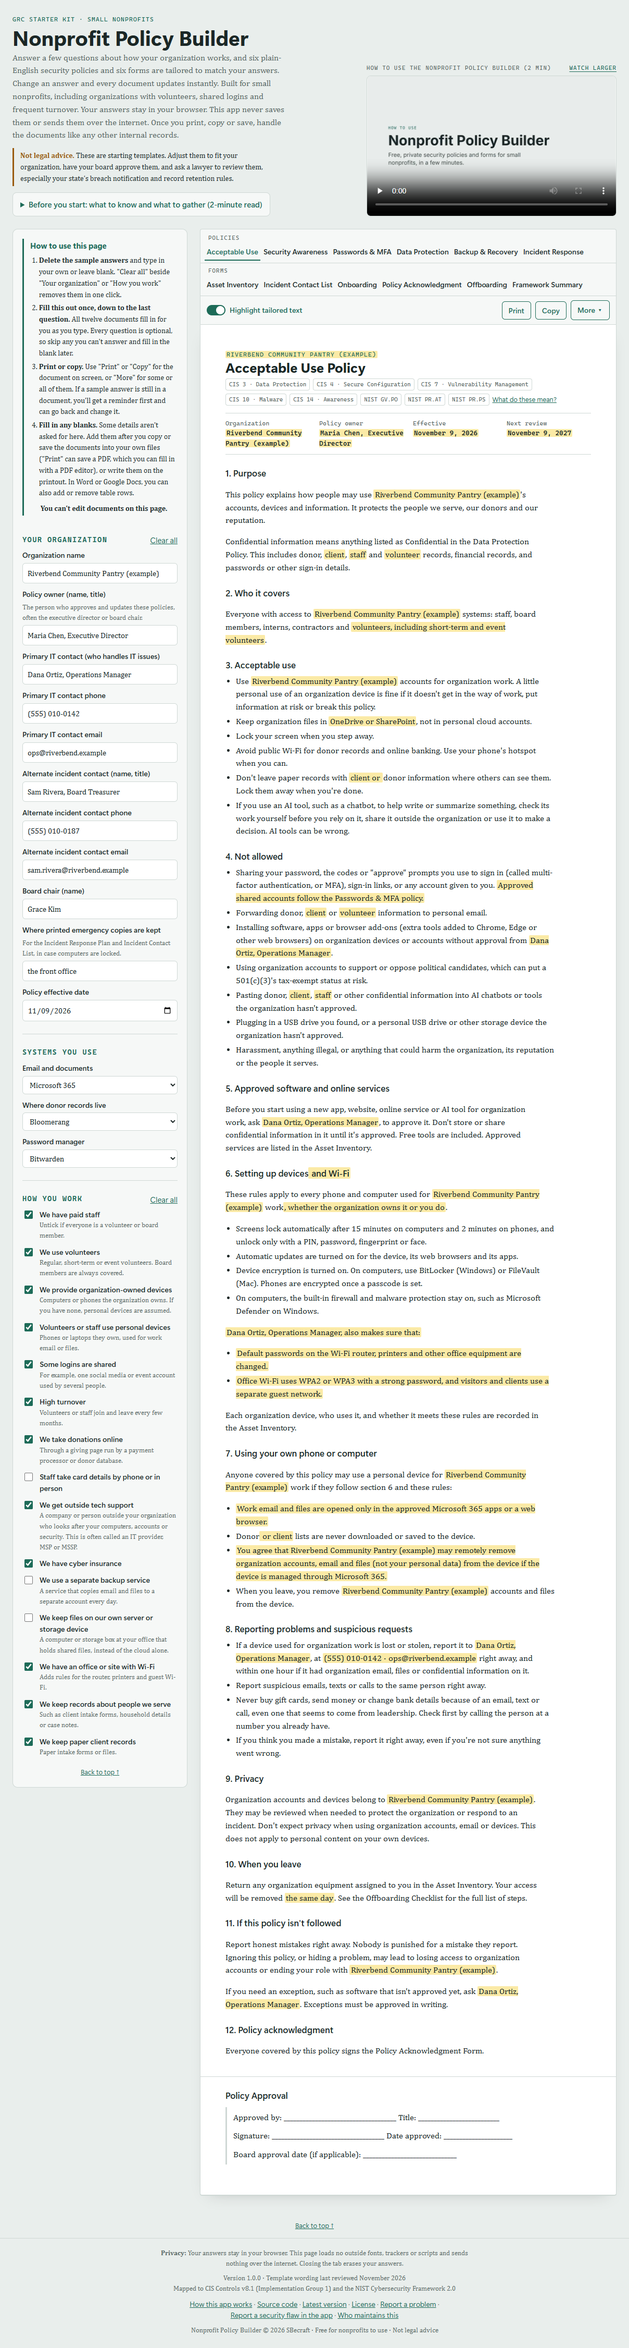
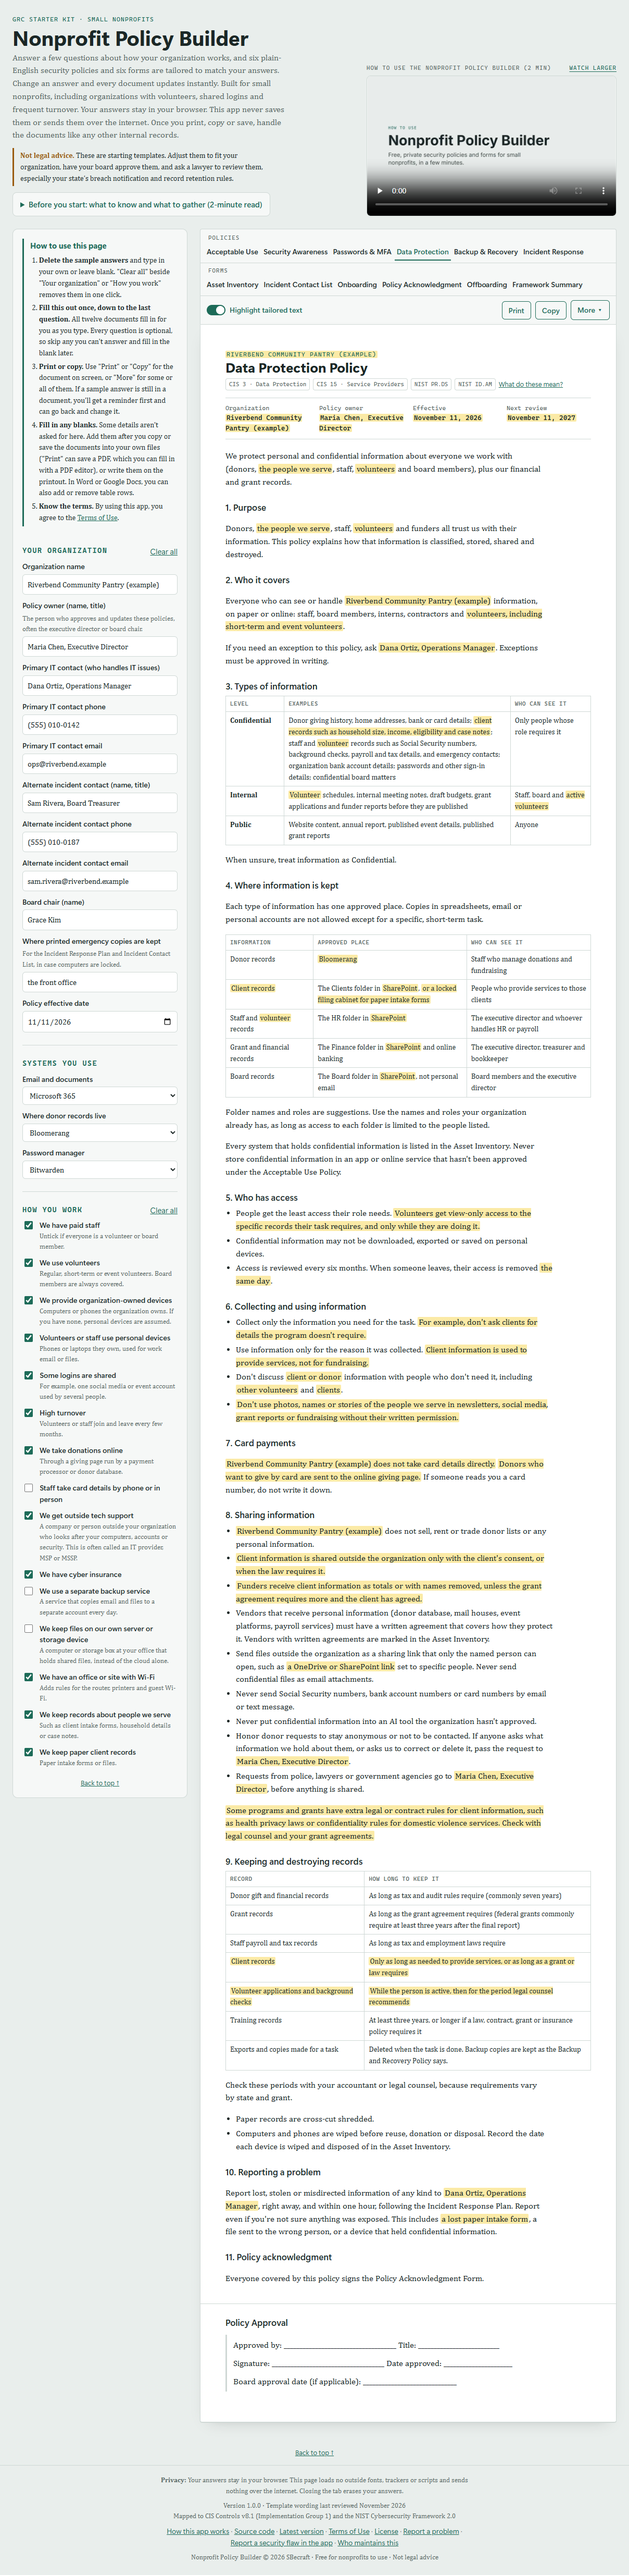
Update the README screenshots and add a Terms of Use link
- New app screenshot (Data Protection tab) and a retaken full-page
  screenshot to match; the alt text names the Data Protection Policy.
- The top table is now HTML, with a Terms of Use link in a third
  column that spans its four rows.

Changed region(s): [[0.0, 0.0, 0.9801, 0.9947]]

diff --git a/CLAUDE.md b/CLAUDE.md
@@ -62,14 +62,14 @@ The footer in `index.html` shows "Version 1.0.0 · Template wording last reviewe
 - `SECURITY.md` (project root) says how to report security problems. The help page lists its address. Reports go only through GitHub's private vulnerability reporting (switched on by the user, November 8, 2026). It lists no email address, on purpose, so the user's address is never public (the user's choice, November 8, 2026); never add one.
 - The repository's security settings (switched on by the user, November 10, 2026): Dependabot alerts, Dependabot malware alerts, CodeQL code scanning in **default setup** (JavaScript, standard queries, on every push to `main` and weekly; first analysis November 10, 2026: 0 alerts), secret scanning and push protection. Default setup adds no workflow file; don't switch to advanced setup, which would add one under `.github/workflows/`. Dependabot has nothing to scan while the app has no package files, so don't add any to give it work. Review each new CodeQL alert: fix it, or dismiss it on GitHub with the reason, and record real findings in the security report. `how.html`'s Testing section, the README's Testing paragraph and `SECURITY.md`'s design list mention these settings, so keep them true if any is switched off.
 - `LICENSE` (project root) is the user's custom Nonprofit Policy Builder License, in the user's own wording (keep it exact), not an open-source license. It allows free internal use by individuals and nonprofits and free use of generated documents, and bars modifying and redistributing without written permission. (Its "Create or distribute forks of the software" line was removed at the user's request, November 6, 2026. The "In no event shall SBecraft be liable…" sentence after the "AS IS" line was added at the user's request, November 10, 2026, with the Terms of Use.)
-- **Terms of Use** (November 10, 2026, the user's wording): the `#terms` section of `how.html`, just before `#license` and listed in its contents, "Last updated" date at the top (change it with every edit to the terms), seven bold-led bullets and "Questions? See Report a problem." The builder links to it from step 5 of "How to use this page" ("**Know the terms.** By using this app, you agree to the Terms of Use."; non-breaking spaces keep "Terms of Use" on one line; a separate line under the steps and one below the box were tried and rejected, the user's choice, November 11, 2026) and from the footer; the README's License section has a **Terms of Use** paragraph pointing to it. Keep the terms consistent with `LICENSE` (free internal use, as is, liability).
+- **Terms of Use** (November 10, 2026, the user's wording): the `#terms` section of `how.html`, just before `#license` and listed in its contents, "Last updated" date at the top (change it with every edit to the terms), seven bold-led bullets and "Questions? See Report a problem." The builder links to it from step 5 of "How to use this page" ("**Know the terms.** By using this app, you agree to the Terms of Use."; non-breaking spaces keep "Terms of Use" on one line; a separate line under the steps and one below the box were tried and rejected, the user's choice, November 11, 2026) and from the footer; the README's License section has a **Terms of Use** paragraph pointing to it, starting with `<a id="terms-of-use"></a>`, the target of the "Terms of Use" link in the third column of the README's top table (Live site, Version, Download, Report). That table is HTML, not Markdown, so the link cell can span all four rows (`rowspan="4"`), centered (the user's request, November 11, 2026). Keep the terms consistent with `LICENSE` (free internal use, as is, liability).
 - Source files carry no copyright notice, and there is no `COPYRIGHT` file: both were removed at the user's request (November 7, 2026). Don't add them back. The copyright line stays only in `LICENSE`, its copy in `how.html`, the builder's footer © line and the README's last line (the user's choice).
 - `NOTICE` (project root) sits beside `LICENSE` and has no copyright lines. `NOTICE` says the app has no third-party code, libraries or fonts, so update it if that ever changes. Its "Third-party material" section (the user's wording, November 7, 2026) lists the walkthrough video's narration voice (Piper TTS, en_US-lessac-medium, non-commercial use only) and the framework references (CIS Controls v8.1, © CIS, CC BY-NC-ND 4.0, control numbers cited for reference only; NIST CSF 2.0, public domain).
 - The `#license` section of `how.html` repeats `LICENSE` word for word, under a one-line summary, because `LICENSE` is not deployed. Change both together. The footer's "License" link goes there.
 - `HANDOFF.md` records where the work stands. Update it with every change.
 - `.github/ISSUE_TEMPLATE/problem-report.md` is the form GitHub shows for "New issue" (what happened, expected, where, browser and device, app version, website or downloaded copy). It asks for no real answers or documents and sends security problems to `SECURITY.md`. Issues must also be switched on in the repository's settings once it exists. Not deployed.
 - `coming-soon/` (project root, added by the user November 8, 2026) is a one-page "Coming soon" placeholder: `index.html` (inline CSS only, system fonts, light and dark colors, `noindex`, no scripts or outside resources) and a `_headers` with the same security headers as `app/`. It also has copies of the app's `favicon.ico`, `favicon.svg` and `apple-touch-icon.png`, linked from its `<head>` (November 8, 2026), so keep them in step if the icon changes. It is not part of the app. Netlify served it until the app went live on November 9, 2026; it is no longer deployed and can be deleted (the user's decision). Listed in the README's file list.
-- `assets/` (project root) holds `app-screenshot.png`, the one screenshot of the app that the README shows near the top, at the left, in a two-cell HTML table (November 10, 2026, the user's request): the image in the first cell and its two-sentence caption in the second, centered across and down (`valign="middle" align="center"`), with a blank line between the sentences (`<br><br>`). GitHub strips CSS, so the table is the only way to center the caption beside the image; it shows GitHub's thin cell borders (1208×1287, the first screen and the start of the sample Acceptable Use Policy, light mode, sample answers). The user takes it by hand (last retaken November 9, 2026; the first hand-taken one, also November 9, replaced the earlier headless Chrome screenshots `app-full-page.png` and `app-preview.png`). Clicking it in the README opens `app-full-page.png` (1208×4504, the whole page: every question, the sample Acceptable Use Policy and the footer, light mode, sample answers), taken in headless Chrome by Claude with the full-page screenshot tool at 1208px wide (November 9, 2026, the user's request). Retake both when the page's look changes noticeably. Tracked by Git, not deployed.
+- `assets/` (project root) holds `app-screenshot.png`, the one screenshot of the app that the README shows near the top, at the left, in a two-cell HTML table (November 10, 2026, the user's request): the image in the first cell and its two-sentence caption in the second, centered across and down (`valign="middle" align="center"`), with a blank line between the sentences (`<br><br>`). GitHub strips CSS, so the table is the only way to center the caption beside the image; it shows GitHub's thin cell borders (1197×1289, the first screen and the start of the sample Data Protection Policy, light mode, sample answers, with step 5 "Know the terms" showing). The user takes it by hand (last retaken November 11, 2026; the first hand-taken one, also November 9, replaced the earlier headless Chrome screenshots `app-full-page.png` and `app-preview.png`). Clicking it in the README opens `app-full-page.png` (1208×4941, the whole page: every question, the sample Data Protection Policy and the footer, light mode, sample answers), taken in headless Chrome by Claude with the full-page screenshot tool at 1208px wide, on the Data Protection tab to match the screenshot (retaken November 11, 2026, the user's request; first taken November 9). Retake both when the page's look changes noticeably. Tracked by Git, not deployed.
 - `.gitignore` keeps `documents/` and `HANDOFF.md` out of Git, so they stay on this computer and are never uploaded. Back up `documents/` separately.
 - `CLAUDE.md` (this file) is public: the user published it in the repository on November 8, 2026, for transparency about how Claude Code is used in the project, and the README links to it. Every change to it goes public with the next push, so never write a personal name, email address, phone number, local file path, password, or anything else private here; put such notes in `HANDOFF.md` instead. Public files name the owner only as SBecraft. The main branch is `main`.
 - Testing materials and project notes are kept privately in `documents/` (not in the repo).

diff --git a/README.md b/README.md
@@ -2,18 +2,22 @@
 
 **Plain-English security policies, tailored in about 15 minutes, free, and with nothing you type ever leaving your browser. Built for small nonprofits, including organizations with volunteers, shared logins and frequent turnover.**
 
-| | |
-|---|---|
-| **Live site** | [nonprofit-policy-builder.pages.dev](https://nonprofit-policy-builder.pages.dev) |
-| **Version** | 1.0.0 |
-| **Download** | [Get the app](#download-the-app) |
-| **Report** | [A problem](../../issues) · [A security flaw in the app](SECURITY.md) |
+<table>
+  <tr>
+    <td><strong>Live site</strong></td>
+    <td><a href="https://nonprofit-policy-builder.pages.dev">nonprofit-policy-builder.pages.dev</a></td>
+    <td rowspan="4" valign="middle" align="center"><a href="#terms-of-use">Terms of Use</a></td>
+  </tr>
+  <tr><td><strong>Version</strong></td><td>1.0.0</td></tr>
+  <tr><td><strong>Download</strong></td><td><a href="#download-the-app">Get the app</a></td></tr>
+  <tr><td><strong>Report</strong></td><td><a href="../../issues">A problem</a> · <a href="SECURITY.md">A security flaw in the app</a></td></tr>
+</table>
 
 > **Not legal advice.** These are starting templates for discussion. Have your board approve them, and ask a lawyer to check your state's breach notification and record retention rules.
 
 <table>
   <tr>
-    <td valign="middle"><a href="assets/app-full-page.png"><img src="assets/app-screenshot.png" width="640" alt="The Nonprofit Policy Builder: the questionnaire on the left, the walkthrough video at the top right, and the tailored Acceptable Use Policy with its tailored text highlighted"></a></td>
+    <td valign="middle"><a href="assets/app-full-page.png"><img src="assets/app-screenshot.png" width="640" alt="The Nonprofit Policy Builder: the questionnaire on the left, the walkthrough video at the top right, and the tailored Data Protection Policy with its tailored text highlighted"></a></td>
     <td valign="middle" align="center"><em>The app with its sample answers.</em><br><br><em>Click the picture to see the whole page.</em></td>
   </tr>
 </table>
@@ -245,7 +249,7 @@ This software is made available for free use by nonprofit organizations for inte
 
 The full terms, including what you may do with the documents the app generates, are in the [Nonprofit Policy Builder License](LICENSE). See also [NOTICE](NOTICE).
 
-**Terms of Use:** The app and its documents are free templates, provided as is, and are not legal advice. Using the app means you agree to the Terms of Use on the live site's "How this app works" page. See also [LICENSE](LICENSE).
+<a id="terms-of-use"></a>**Terms of Use:** The app and its documents are free templates, provided as is, and are not legal advice. Using the app means you agree to the Terms of Use on the live site's "How this app works" page. See also [LICENSE](LICENSE).
 
 Nonprofit Policy Builder © 2026 SBecraft · Free for nonprofits to use · Not legal advice
 
